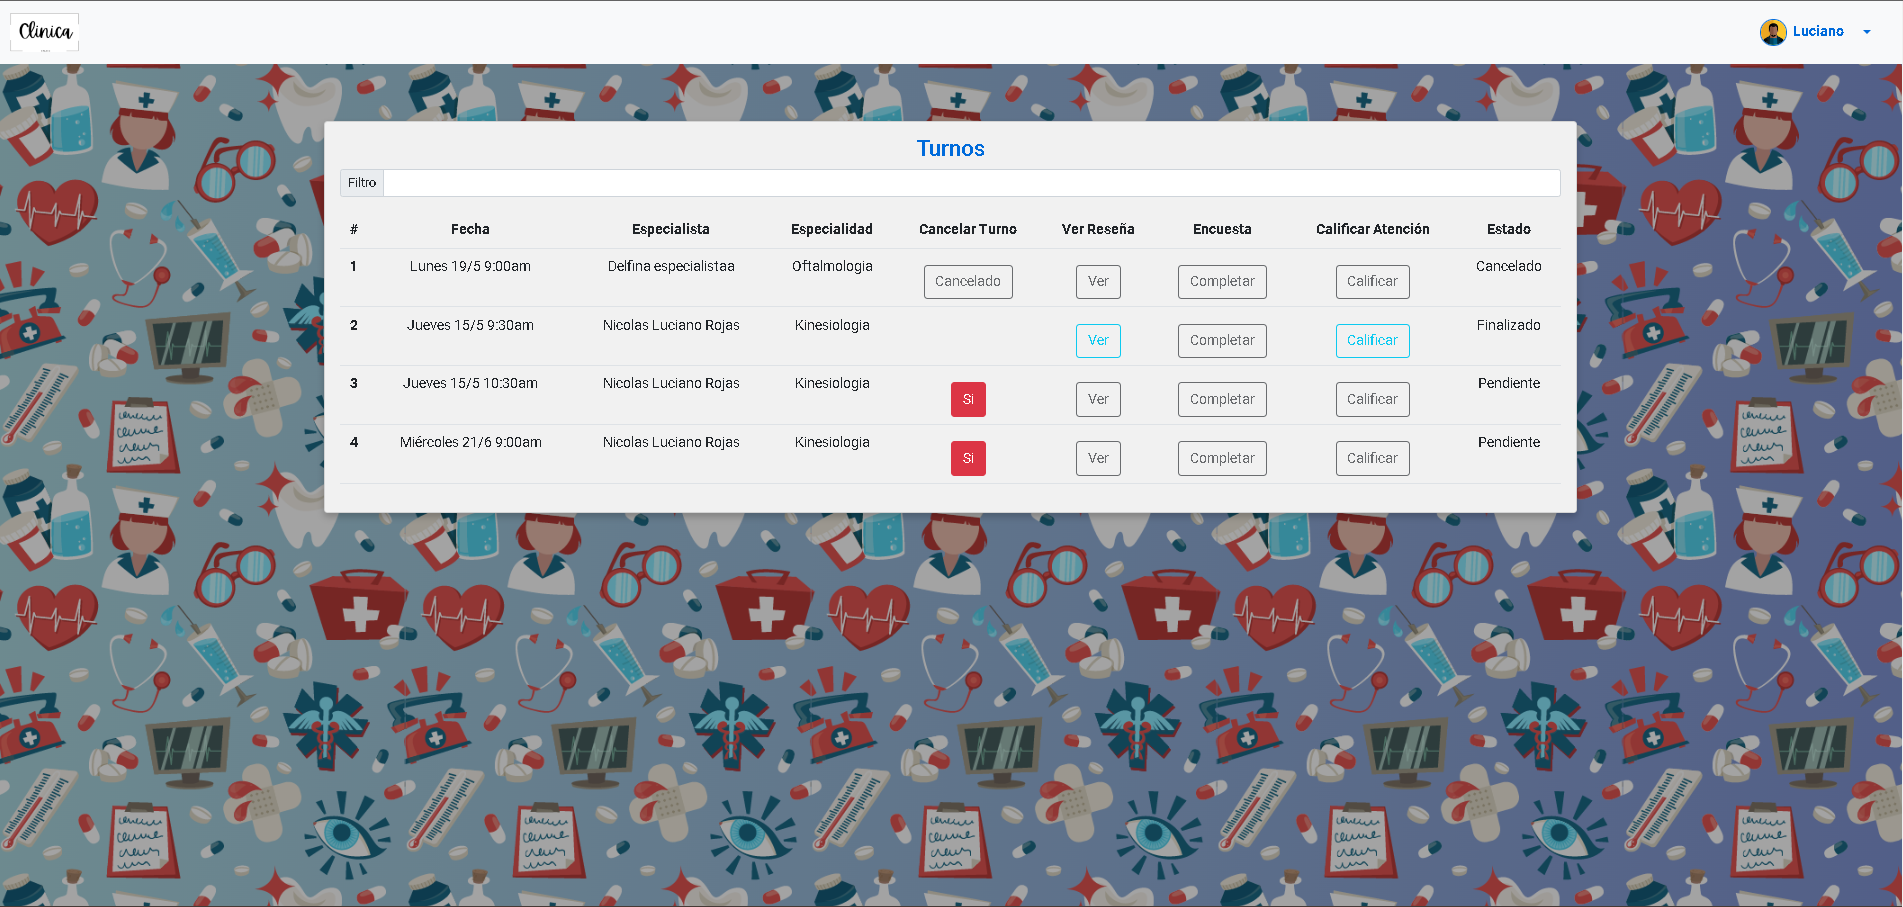
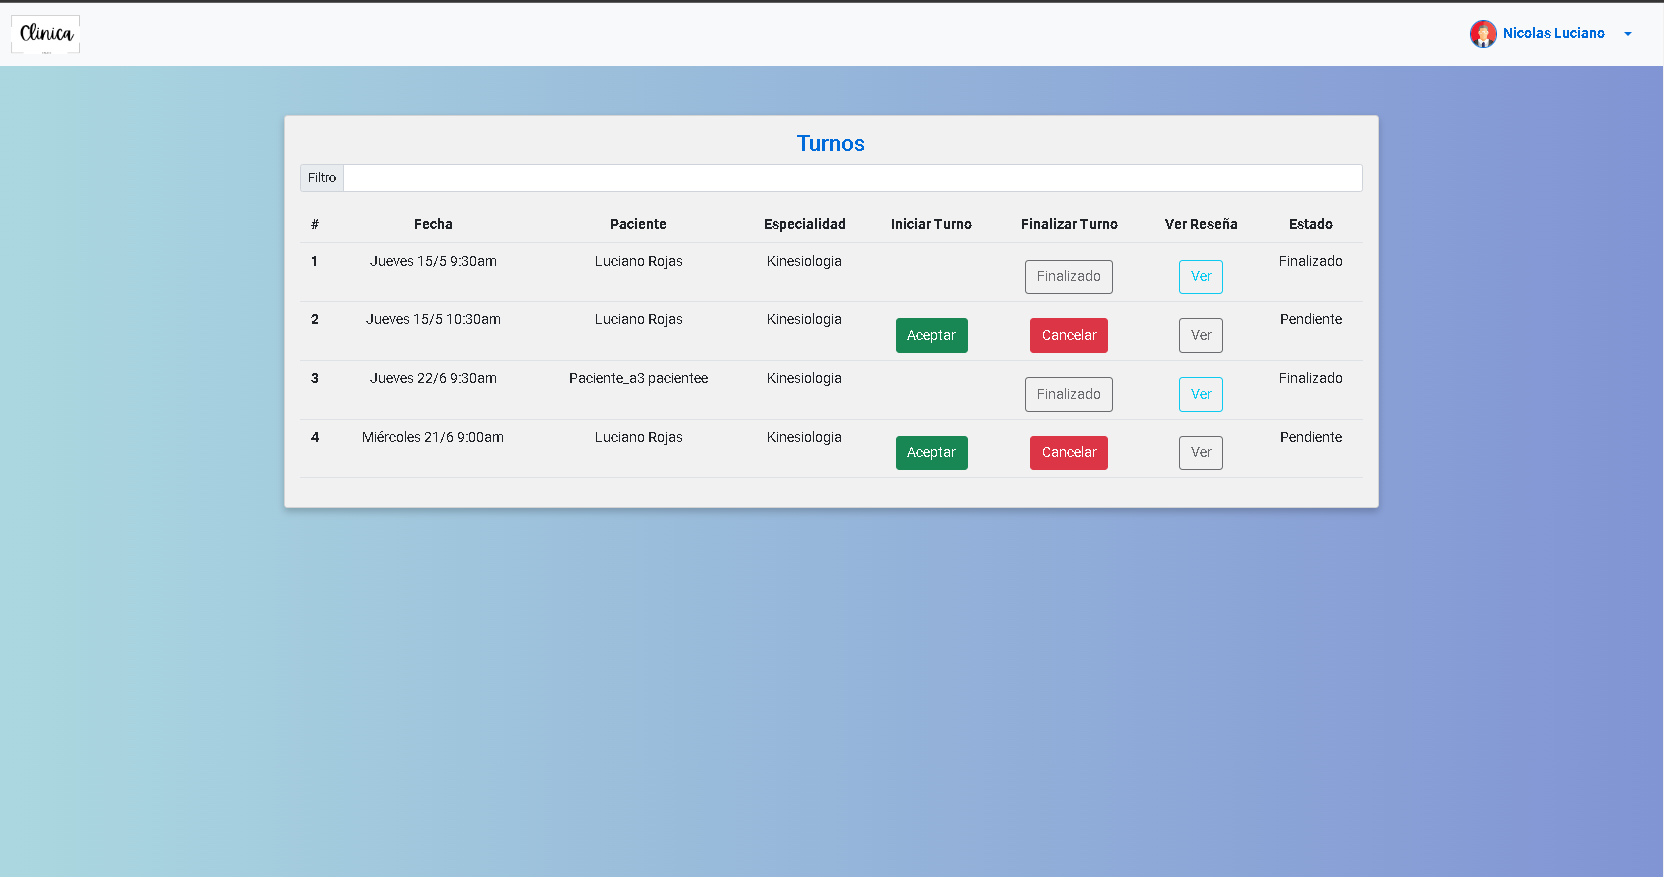
sprint 3 fixes

diff --git a/src/app/pages/login/login.component.html b/src/app/pages/login/login.component.html
@@ -1,73 +1,31 @@
-<!DOCTYPE html>
-<html>
-<head>
-  <style>
-    html, body {
-      height: 100%;
-      display: flex;
-      justify-content: center;
-      align-items: center;
-    }
-    .row {
-      display: flex;
-    }
-    .column {
-      flex: 1;
-      padding: 10px;
-    }
-    .image-container {
-      display: flex;
-      flex-direction: column;
-      gap: 10px;
-      align-items: center; /* Alinea las imágenes en el centro horizontal */
-    }
-    .card-body {
-      padding: 10px;
-    }
-    .profile {
-      margin-top: 50px;
-    }
-    .form-control {
-      font-size: 16px; /* Aumenta el tamaño de letra de los campos de entrada */
-    }
-    label {
-      font-size: 18px; /* Aumenta el tamaño de letra de las etiquetas */
-    }
-  </style>
-</head>
-<body>
-  <div class="profile">
-    <div class="row" style="display: flex;">
-      <div class="column" style="width:100%; display: flex; justify-content: space-between;">
-        <div class="image-container">
-          <input type="image" src="../../../assets/user1.png" (click)="autoLogin('lucianoexcle@gmail.com')" width="50" height="50" style="margin-right: 10px;">
-          <input type="image" src="../../../assets/user3.png" (click)="autoLogin('NROJAS@trabajo.gob.ar')" width="50" height="50">
-          <input type="image" src="../../../assets/user5.png" (click)="autoLogin('lucianorojas1993@gmail.com')" width="50" height="50" style="margin-right: 10px;">
-          <input type="image" src="../../../assets/user4.png" (click)="autoLogin('diviv78850@aramask.com')" width="50" height="50" style="margin-right: 10px;">
-          <input type="image" src="../../../assets/user2.png" (click)="autoLogin('bacawosi@finews.biz')" width="50" height="50" style="margin-right: 10px;">
-          <input type="image" src="../../../assets/user6.png" (click)="autoLogin('mfgfjs28@icznn.com')" width="50" height="50">
-        </div>
-        <form [formGroup]="form" (ngSubmit)="onSubmit()">
-          <div class="card-body p-4">
-            <div class="form-group">
-              <label style="float: left; font-size: 18px; color: #ffffff;">Email</label>
-              <input class="form-control" formControlName="email" type="email" placeholder="Ingrese su email" required>
-              
-              <div class="errorMessage" *ngIf="getValue('email')?.invalid && (getValue('email').touched || getValue('email').dirty)">
-                Ingrese un mail válido
-              </div>
-              <label style="float: left; font-size: 18px;color: #ffffff;">Password</label>
-              <input autocomplete="new-password" #password class="form-control" formControlName="password" type="password" placeholder="Ingrese su password" required>
-              <div class="errorMessage" *ngIf="getValue('password')?.invalid && (getValue('password').touched || getValue('password').dirty)">
-                Mínimo 6 caracteres
-              </div>
-              <button class="btn btn-primary form-control" type="button" [disabled]="!form.valid" (click)="onSubmit()">Ingresar</button>
-              <label class="register" style="color: #ffffff;">¿Todavía no tienes tu cuenta? <a routerLink="/register">Regístrate</a></label>
-            </div>
+<div class="profile">
+  <div class="center card" style="width: 70%;">
+    <form [formGroup]="form" (ngSubmit)="onSubmit()">
+      <div class="card-body p-4">
+        <div class="form-group">
+          <label style="float: left">Email</label>
+          <input class="form-control" formControlName="email" type="email" placeholder="Ingrese su email" required>
+          <div class="errorMessage" *ngIf="getValue('email')?.invalid && (getValue('email').touched || getValue('email').dirty)">
+            Ingrese un mail válido
           </div>
-        </form>
+          <label style="float: left">Password</label>
+          <input autocomplete="new-password" #password class="form-control" formControlName="password" type="password" placeholder="Ingrese su password" required>
+          <div class="errorMessage" *ngIf="getValue('password')?.invalid && (getValue('password').touched || getValue('password').dirty)">
+            Mínimo 6 caracteres
+          </div>
+        </div>
+        <button class="btn btn-primary form-control" type="submit" [disabled]="!form.valid">Ingresar</button>
+
+        <label class="register">¿Todavía no tenés tu cuenta? <a routerLink="/register">Registrate</a></label>
       </div>
+    </form>
+    <div class="card-body p-4 autoLog">
+      <input type="image" src="../../../assets/user1.png" (click)="autoLogin('lucianoexcle@gmail.com')" width="150" height="150" class="imageBtn">
+      <input type="image" src="../../../assets/user3.png" (click)="autoLogin('NROJAS@trabajo.gob.ar')" width="150" height="150" class="imageBtn">
+      <input type="image" src="../../../assets/user5.png" (click)="autoLogin('lucianorojas1993@gmail.com')" width="150" height="150" class="imageBtn">
+      <input type="image" src="../../../assets/user4.png" (click)="autoLogin('diviv78850@aramask.com')" width="150" height="150" class="imageBtn">
+      <input type="image" src="../../../assets/user2.png" (click)="autoLogin('bacawosi@finews.biz')" width="150" height="150" class="imageBtn">
+      <input type="image" src="../../../assets/user6.png" (click)="autoLogin('mfgfjs28@icznn.com')" width="150" height="150">
     </div>
   </div>
-</body>
-</html>
+</div>

diff --git a/src/styles.scss b/src/styles.scss
@@ -14,10 +14,11 @@ body {
   background-position: absolute;
   width: 100%;
   //background: url("../src/assets/newBack5.jpg");
-  background: url("../src/assets/backS.png"), #b3aeff;
-  background: url("../src/assets/backS.png"),
+  background: //url("../src/assets/backS.png"), 
+  #b3aeff;
+  background:// url("../src/assets/backS.png"),
     -webkit-gradient(linear, right top, left top, from(#b3e3ff), to(#c08e91));
-  background: url("../src/assets/backS.png"),
+  background: //url("../src/assets/backS.png"),
     linear-gradient(to left, #8194d4, #abd8e0);  
   //background: url("../src/assets/EMU_Patterns-background_02.jpg");
 }

diff --git a/src/app/pipes/turns-filter-s.pipe.ts b/src/app/pipes/turns-filter-s.pipe.ts
@@ -9,7 +9,7 @@ export class TurnsFilterSPipe implements PipeTransform {
   transform(items: Turns[], keyword: any, properties: string[]): Turns[] {
     if (!items) return [];
     if (!keyword) return items;
-    debugger;
+    // debugger;
     return items.filter(item => {
       var itemFound: Boolean = false;
       for (let i = 0; i < properties.length; i++) {

diff --git a/src/app/pages/login/login.component.scss b/src/app/pages/login/login.component.scss
@@ -5,12 +5,14 @@
     position: fixed;
 }
 
-
-
 .autoLog {
     align-items: center;
     position: relative;
     margin-top: 20px;
+}
+
+.autoLog input[type="image"] {
+    margin-right: 10px;
 }
 
 :host {

diff --git a/src/app/pages/profile/profile.component.scss b/src/app/pages/profile/profile.component.scss
@@ -10,5 +10,5 @@
 
 :host {
     width: 100%;
-    height: 100%;
+    height: 90%;
 }

diff --git a/README.md b/README.md
@@ -2,22 +2,34 @@
 
 Bienvenido a nuestra clínica online. Te ayudaremos a entender como funciona.
 
-## Registro
-Podés registrarte [acá](https://lr-clinicaonline.web.app/register).
-<img src="assetsReadme/registro.png">
+## Registro Paciente
+Podés registrarte como Paciente de la siguiente manera.
+<img src="assetsReadme/registroPaciente.gif">
+
+## Registro Especialista
+Podés registrarte como Especialista de la siguiente manera.
+<img src="assetsReadme/registroEspecialista.gif">
 
 ## Iniciar Sesión
-Podés iniciar sesión [acá](https://lr-clinicaonline.web.app/login).
+Podés iniciar sesión con tu usuario y contraseña.
 <img src="assetsReadme/login.png">
 
-## Mi perfil
-Acá vas a poder configurar tus datos personales y ver tu historia clínica
-<img src="assetsReadme/perfil.png">
+## Mi perfil (Paciente)
+Acá vas a poder ver tus datos personales y tu historial de turnos con la posibilidad de descargarlo en PDF.
+<img src="assetsReadme/miperfilpaciente.png">
 
-## Mis turnos
+## Mi perfil (Especialista)
+Acá vas a poder ver tus datos personales y gestionar tus horarios de atención por especialidad.
+<img src="assetsReadme/miperfilespecialista.png">
+
+## Mis turnos (Paciente)
 Acá veremos los turnos que hemos solicitado y los finalizados.
-<img src="assetsReadme/misturnos.png">
+<img src="assetsReadme/misturnospaciente.png">
+
+## Mis turnos (Especialista)
+Acá veremos los turnos que hemos nos han solicitado.
+<img src="assetsReadme/misturnosespecialista.png">
 
 ## Sacar turno
-PAra sacar un turno, primero debemos elegir el especialista, siguiendo por la especialidad y luego eligiendo día y horario.
-<img src="assetsReadme/sacarturno.png">
+Para solicitar un turno, primero debemos elegir el especialista, siguiendo por la especialidad y luego eligiendo día y horario.
+<img src="assetsReadme/pedirTurno.gif">
